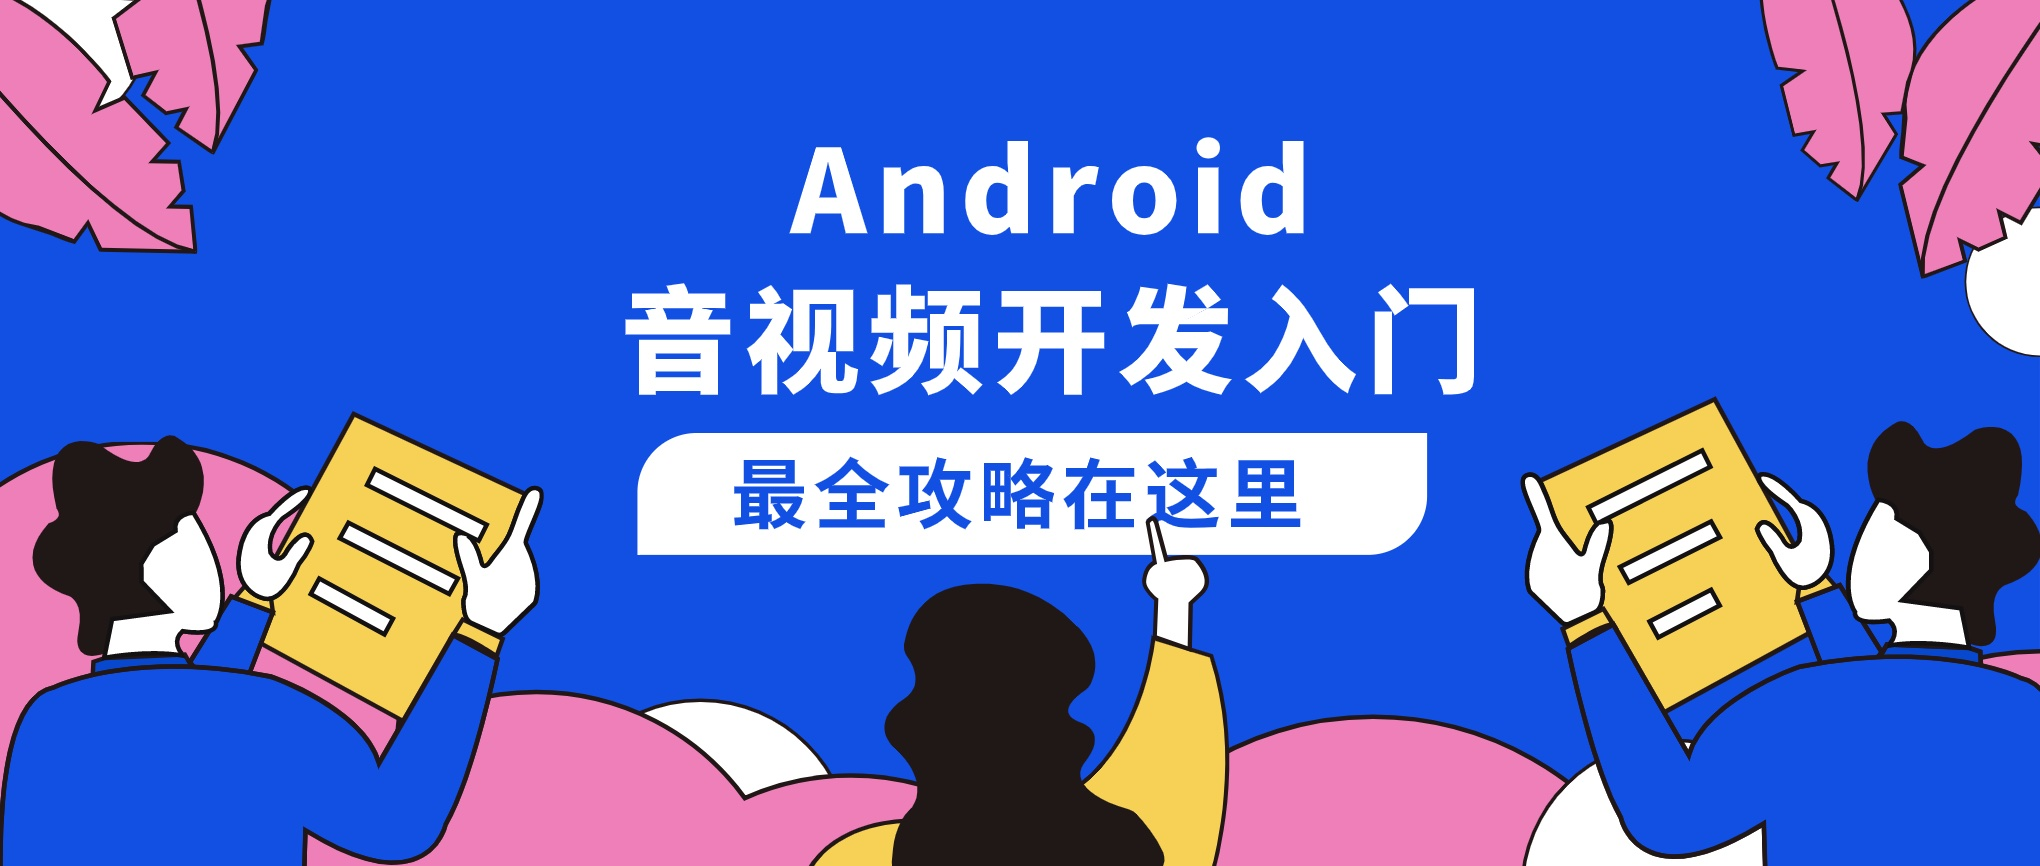
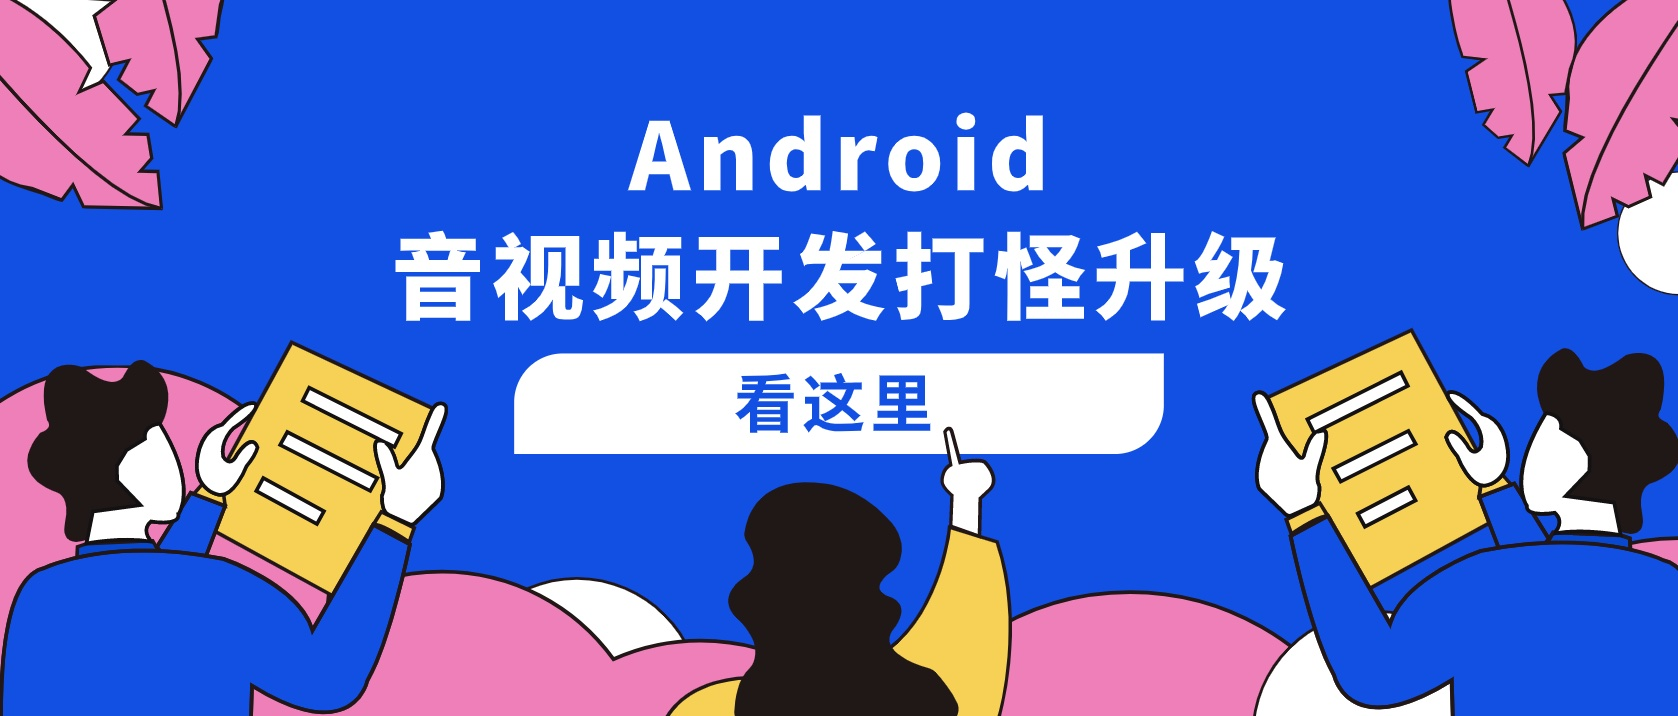
doc: Update README

diff --git a/README.md b/README.md
@@ -3,7 +3,17 @@
 
 #### 简介
 
-本项目为【Android音视频开发入门】系列教程的代码实例，教程正在陆续完善中。
+本项目为【Android音视频开发打怪升级】系列教程的代码实例，教程正在陆续完善中。
+
+##### 炙手可热，望而生畏的音视频开发
+
+时至今日，短视频App可谓是如日中天，一片兴兴向荣。随着短视频的兴起，音视频开发也越来越受到重视，但是由于音视频开发涉及知识面比较广，入门门槛相对较高，让许许多多开发者望而生畏。
+
+##### 为什么写这一系列博文
+
+虽然网上有很多的博文总结了音视频打怪升级的路线，但是音视频开发相关的知识都相对独立，有讲“音视频解码相关”的，有讲“OpenGL相关”的，也有讲“FFmpeg相关的”，但是对于新手来说，把所有的知识衔接串联起来，并很好的理解所有的知识，却是非常困难的。
+
+本人在学习音视频开发的过程中，深刻体会到了由于知识的分散，过渡断层带来的种种困惑和痛苦，因此，希望通过自己的理解，可以把音视频开发相关的知识总结出来，并形成系列文章，循序渐进，剖析各个环节，一则对自己所学做一个总结和巩固，二则希望可以帮助想入门音视频开发的开发者小伙伴们。
 
 #### 声 明
 
